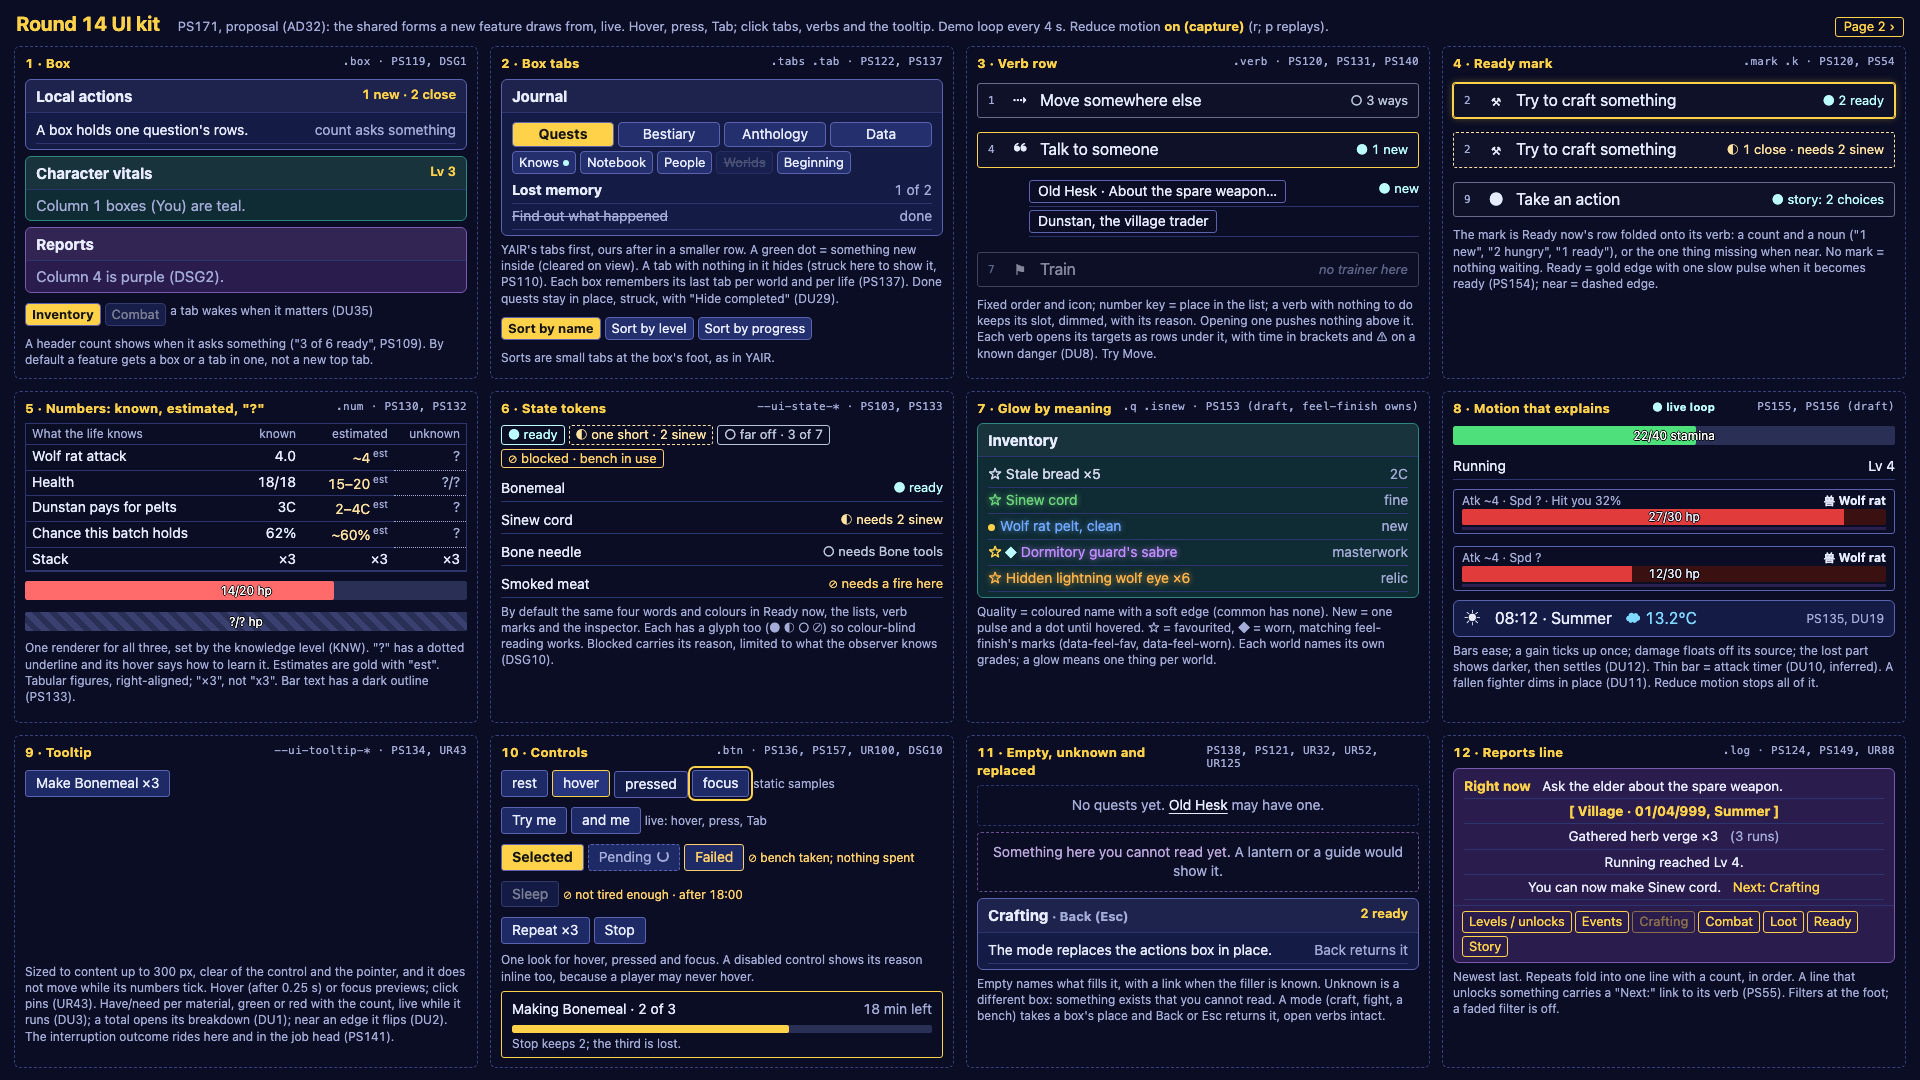
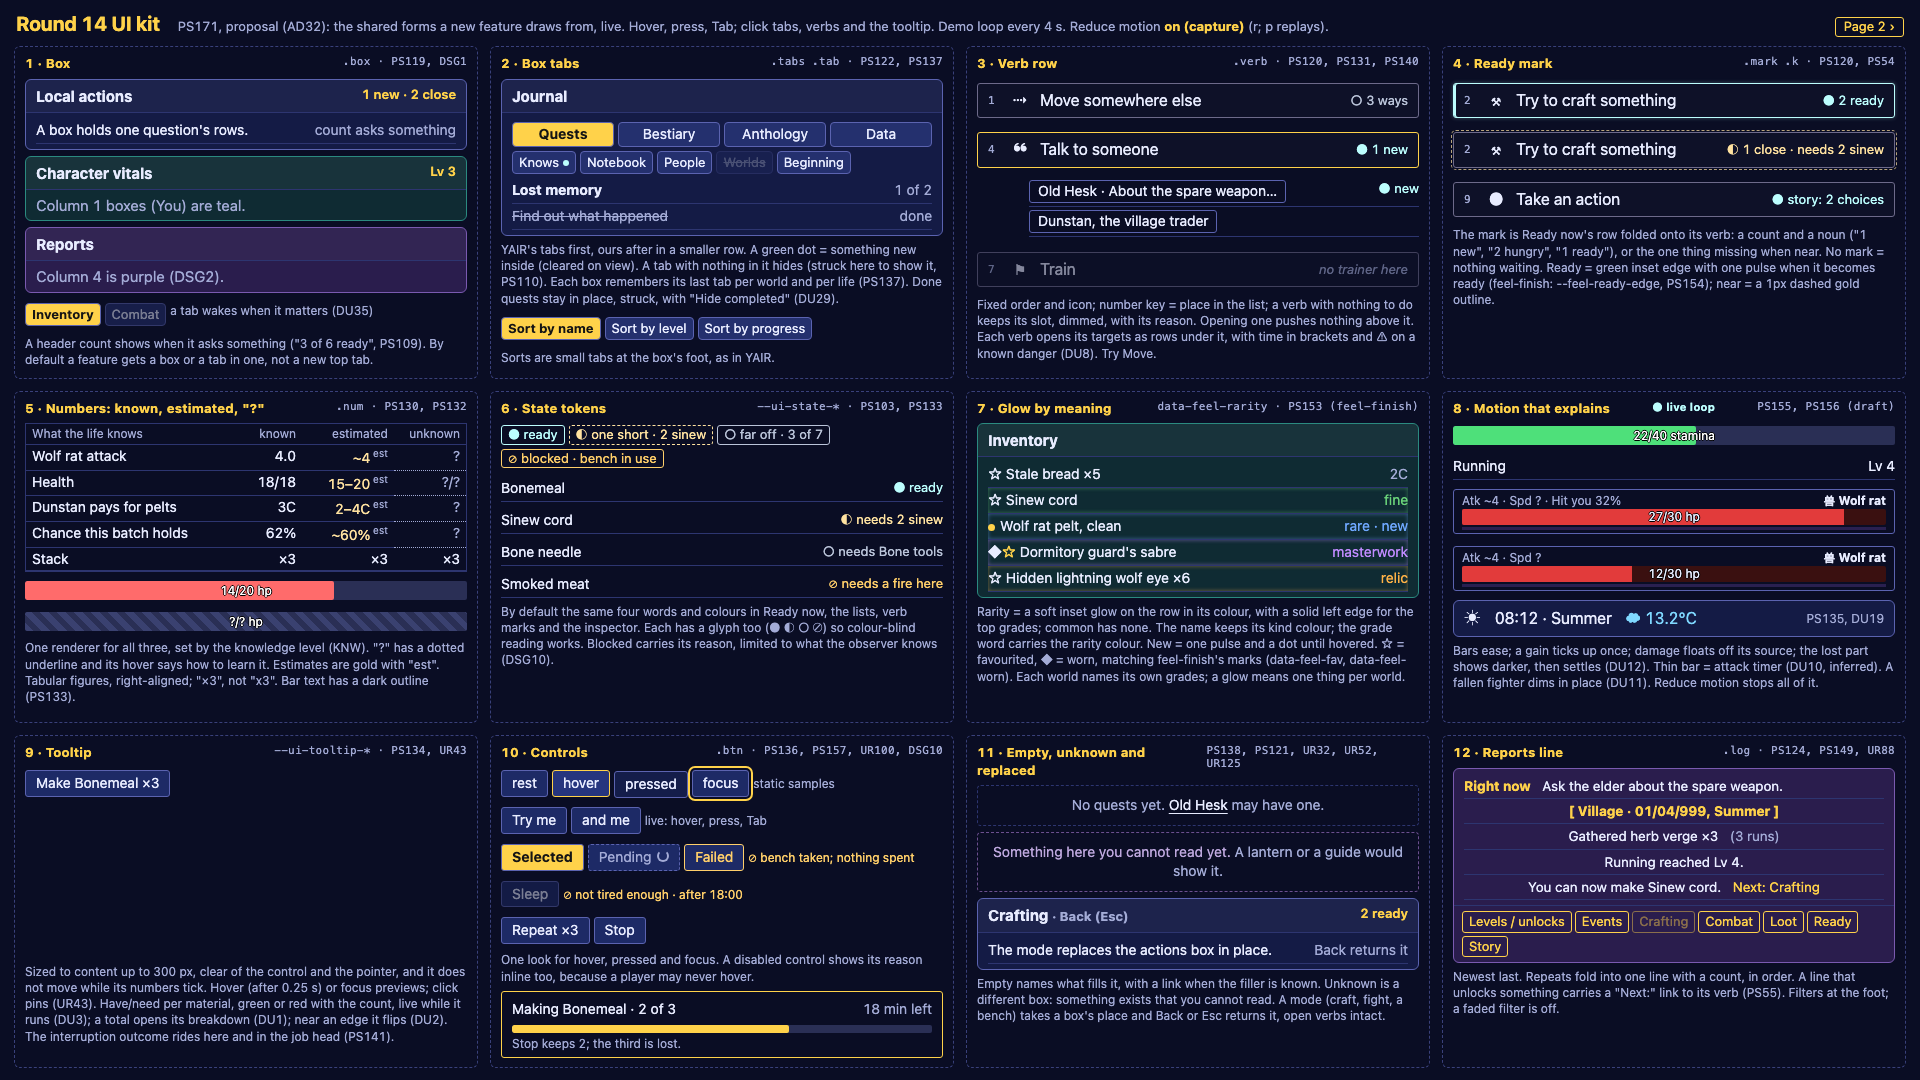
UI kit matches feel-finish's settled names: links styles/feel_finish.css, green ready edge and feel-ready-pulse, dashed gold near, rarity as an inset row glow from data-feel-rarity, feel-new-pulse and feel-tick-up, hover/press/focus tokens, html[data-feel-motion]

diff --git a/prototypes/ui-kit-2026-11-15/index.html b/prototypes/ui-kit-2026-11-15/index.html
@@ -10,6 +10,7 @@
      .mark, .num) are the mock's until ui-cohesion's frame names them; glow and motion follow feel-finish's
      styles/feel_finish.css where it has landed (marks, --ui-motion-settle), drafts elsewhere. Not runtime code. Keys: r toggles reduce motion, p replays the "became ready" pulse. -->
 <link rel="stylesheet" href="../../styles/ui_tokens.css">
+<link rel="stylesheet" href="../../styles/feel_finish.css"><!-- feel-finish tokens and keyframes: --feel-*, feel-ready-pulse, feel-new-pulse, feel-tick-up -->
 <style>
 :root { --bg:#0a0d24; --box:#141b45; --line:#5b63b0; --quiet:#2d3570; --text:#e8ecff; --muted:#a3abd6; --gold:#ffd24a;
   --rep:#2a1d4d; --hp:#ff6b6b; --st:#4ee07a; --mana:#7f8ed8;
@@ -63,19 +64,20 @@ main { position:absolute; top:46px; left:14px; right:14px; bottom:12px; display:
 .bar i { position:absolute; inset:0; width:var(--f); background:var(--c); border-radius:2px; transition:width .5s ease-out; }
 .bar span { position:relative; -webkit-text-stroke:0; text-shadow:-1px 0 #000, 1px 0 #000, 0 -1px #000, 0 1px #000; }
 .bar.unk i { background:repeating-linear-gradient(45deg, #3a4170 0 6px, #2a2f55 6px 12px); width:100%; }
-/* Glow (PS153, PS154): rarity name with a soft edge, new = one pulse and a dot, ready = gold edge. */
-.q { text-shadow:0 0 6px color-mix(in srgb, currentColor 60%, transparent); }
-.q.common { color:var(--q-common); text-shadow:none; } .q.fine { color:var(--q-fine); } .q.rare { color:var(--q-rare); } .q.masterwork { color:var(--q-masterwork); } .q.relic { color:var(--q-relic); }
+/* Glow (PS153, PS154), matched to feel-finish (styles/feel_finish.css): rarity is an inset glow on the row in --feel-rarity, not on the
+   letters (the Gothic face takes no text glow); the name keeps its kind colour. Ready = green inset edge (--feel-ready-edge) with one
+   feel-ready-pulse; near = 1px dashed gold outline (--feel-near); new = one feel-new-pulse; ticks use feel-tick-up. All at --ui-motion-settle. */
+.q { color:var(--text); }
+.qw.fine { color:var(--q-fine); } .qw.rare { color:var(--q-rare); } .qw.masterwork { color:var(--q-masterwork); } .qw.relic { color:var(--q-relic); }
+[data-feel-rarity]:not([data-feel-rarity="common"]) { box-shadow:inset 0 0 var(--feel-glow-blur, 8px) color-mix(in srgb, var(--feel-rarity) 45%, transparent); }
+[data-feel-rarity="masterwork"], [data-feel-rarity="relic"] { box-shadow:inset 2px 0 0 var(--feel-rarity), inset 0 0 calc(var(--feel-glow-blur, 8px) * 1.5) color-mix(in srgb, var(--feel-rarity) 55%, transparent); }
 .newdot { display:inline-block; width:7px; height:7px; border-radius:50%; background:var(--gold); margin-right:5px; }
-.isnew { animation:newpulse var(--pulse) ease-out 1; }
-.fav { color:var(--gold); } .worn { color:var(--k-ready); font-size:12px; margin-left:3px; } .eq { font-size:11px; border:1px solid var(--muted); color:var(--muted); border-radius:2px; padding:0 3px; }
-.verb.ready { border-color:var(--gold); box-shadow:0 0 0 1px var(--gold), 0 0 8px rgba(255,210,74,.35); }
-.verb.ready.became { animation:readypulse var(--pulse) ease-out 1; }
-.verb.near { border-style:dashed; border-color:var(--k-near); }
-@keyframes readypulse { 0% { box-shadow:0 0 0 1px var(--gold), 0 0 0 rgba(255,210,74,.0); } 40% { box-shadow:0 0 0 1px var(--gold), 0 0 18px rgba(255,210,74,.75); } 100% { box-shadow:0 0 0 1px var(--gold), 0 0 8px rgba(255,210,74,.35); } }
-@keyframes newpulse { 0% { background:rgba(255,210,74,.0); } 35% { background:rgba(255,210,74,.28); } 100% { background:rgba(255,210,74,0); } }
-@keyframes tick { 0% { color:var(--k-ready); transform:translateY(-2px); } 100% { color:inherit; transform:none; } }
-.ticked { display:inline-block; animation:tick .8s ease-out 1; }
+.isnew { animation:feel-new-pulse var(--ui-motion-settle, 900ms) var(--ui-motion-ease, ease-out) 1; }
+.fav { color:var(--gold); } .eq { font-size:11px; border:1px solid var(--muted); color:var(--muted); border-radius:2px; padding:0 3px; }
+.verb.ready { border-color:var(--feel-ready, var(--k-ready)); box-shadow:var(--feel-ready-edge, inset 2px 0 0 var(--k-ready)); }
+.verb.ready.became { animation:feel-ready-pulse var(--ui-motion-settle, 900ms) var(--ui-motion-ease, ease-out) 1; }
+.verb.near { outline:1px dashed color-mix(in srgb, var(--feel-near, var(--gold)) 70%, transparent); outline-offset:1px; }
+.ticked { display:inline-block; animation:feel-tick-up var(--ui-motion-settle, 900ms) var(--ui-motion-ease, ease-out) 1; }
 .floaty { position:absolute; right:10px; top:-4px; color:var(--hp); font-weight:700; font-size:13px; animation:floatoff 1.4s ease-out infinite; }
 @keyframes floatoff { 0% { opacity:0; transform:translateY(6px); } 20% { opacity:1; } 100% { opacity:0; transform:translateY(-16px); } }
 body.rm *, body.rm *::before, body.rm *::after { animation:none !important; transition:none !important; }
@@ -105,9 +107,9 @@ body.rm *, body.rm *::before, body.rm *::after { animation:none !important; tran
 #rmstate { color:var(--gold); }
 /* Live states (coordinator 2026-11-15: forms move, not only static samples). Real :hover, :active, :focus-visible. */
 .btn, .tab, .verb, .act, .filters span { cursor:pointer; transition:background-color .12s, border-color .12s, transform .06s, box-shadow .12s; }
-.btn:hover, .tab:not(.on):hover, .act:hover { background:#26357e; border-color:var(--gold); }
-.btn:active, .tab:active, .verb:active, .act:active { transform:translateY(1px); filter:brightness(.88); }
-.btn:focus-visible, .tab:focus-visible, .verb:focus-visible, .act:focus-visible { outline:2px solid var(--gold); outline-offset:2px; }
+.btn:hover, .tab:not(.on):hover, .act:hover { background:color-mix(in srgb, #1d2a66, var(--gold) 12%); background:var(--feel-hover-fill, #26357e); border-color:var(--gold); }
+.btn:active, .tab:active, .verb:active, .act:active { background:var(--feel-press-fill, #141d4a); transform:translateY(1px); }
+.btn:focus-visible, .tab:focus-visible, .verb:focus-visible, .act:focus-visible { outline:var(--feel-focus-ring, 2px solid var(--gold)); outline-offset:2px; }
 .verb:not(.dim):hover { background:rgba(255,255,255,.06); border-color:#a9a6d0; } .verb.ready:hover { border-color:var(--gold); }
 .verb.dim { cursor:not-allowed; }
 .btn[aria-disabled="true"] { opacity:.5; cursor:not-allowed; } .btn[aria-disabled="true"]:hover { background:#1d2a66; border-color:var(--line); }
@@ -198,7 +200,7 @@ main[hidden] { display:none; } .pager { margin-left:auto; color:var(--gold); bor
   <div class="verb ready" id="pulseA" tabindex="0"><span class="key">2</span><span class="ic">⚒</span><span>Try to craft something</span><span class="mark k ready" id="readyMark">2 ready</span></div>
   <div class="verb near"><span class="key">2</span><span class="ic">⚒</span><span>Try to craft something</span><span class="mark k near">1 close · needs 2 sinew</span></div>
   <div class="verb"><span class="key">9</span><span class="ic">●</span><span>Take an action</span><span class="mark k ready">story: 2 choices</span></div>
-  <div class="cap">The mark is Ready now's row folded onto its verb: a count and a noun ("1 new", "2 hungry", "1 ready"), or the one thing missing when near. No mark = nothing waiting. Ready = gold edge with one slow pulse when it becomes ready (PS154); near = dashed edge.</div>
+  <div class="cap">The mark is Ready now's row folded onto its verb: a count and a noun ("1 new", "2 hungry", "1 ready"), or the one thing missing when near. No mark = nothing waiting. Ready = green inset edge with one pulse when it becomes ready (feel-finish: --feel-ready-edge, PS154); near = a 1px dashed gold outline.</div>
 </section>
 
 <section class="cell"><h2>5 · Numbers: known, estimated, "?" <code>.num · PS130, PS132</code></h2>
@@ -222,15 +224,15 @@ main[hidden] { display:none; } .pager { margin-left:auto; color:var(--gold); bor
   <div class="cap">By default the same four words and colours in Ready now, the lists, verb marks and the inspector. Each has a glyph too (● ◐ ○ ⊘) so colour-blind reading works. Blocked carries its reason, limited to what the observer knows (DSG10).</div>
 </section>
 
-<section class="cell"><h2>7 · Glow by meaning <code>.q .isnew · PS153 (draft, feel-finish owns)</code></h2>
+<section class="cell"><h2>7 · Glow by meaning <code>data-feel-rarity · PS153 (feel-finish)</code></h2>
   <div class="box teal"><h3><span>Inventory</span><small></small></h3><div class="body">
     <div class="row"><span class="q common">☆ Stale bread ×5</span><span class="m">2C</span></div>
-    <div class="row"><span class="q fine">☆ Sinew cord</span><span class="m">fine</span></div>
-    <div class="row isnew" id="pulseB"><span><span class="newdot"></span><span class="q rare">Wolf rat pelt, clean</span></span><span class="m">new</span></div>
-    <div class="row"><span><span class="fav">☆</span><span class="worn" title="worn">◆</span> <span class="q masterwork">Dormitory guard's sabre</span></span><span class="m">masterwork</span></div>
-    <div class="row"><span class="q relic">☆ Hidden lightning wolf eye ×6</span><span class="m">relic</span></div>
+    <div class="row" data-feel-rarity="fine" style="--feel-rarity:var(--q-fine)"><span class="q">☆ Sinew cord</span><span class="qw fine">fine</span></div>
+    <div class="row isnew" id="pulseB" data-item-new data-feel-rarity="rare" style="--feel-rarity:var(--q-rare)"><span><span class="newdot"></span><span class="q">Wolf rat pelt, clean</span></span><span class="qw rare">rare · new</span></div>
+    <div class="row" data-feel-fav data-feel-worn data-feel-rarity="masterwork" style="--feel-rarity:var(--q-masterwork)"><span><span class="worn" title="worn">◆</span><span class="fav">☆</span> <span class="q">Dormitory guard's sabre</span></span><span class="qw masterwork">masterwork</span></div>
+    <div class="row" data-feel-rarity="relic" style="--feel-rarity:var(--q-relic)"><span class="q">☆ Hidden lightning wolf eye ×6</span><span class="qw relic">relic</span></div>
   </div></div>
-  <div class="cap">Quality = coloured name with a soft edge (common has none). New = one pulse and a dot until hovered. ☆ = favourited, ◆ = worn, matching feel-finish's marks (data-feel-fav, data-feel-worn). Each world names its own grades; a glow means one thing per world.</div>
+  <div class="cap">Rarity = a soft inset glow on the row in its colour, with a solid left edge for the top grades; common has none. The name keeps its kind colour; the grade word carries the rarity colour. New = one pulse and a dot until hovered. ☆ = favourited, ◆ = worn, matching feel-finish's marks (data-feel-fav, data-feel-worn). Each world names its own grades; a glow means one thing per world.</div>
 </section>
 
 <section class="cell"><h2>8 · Motion that explains <span class="live">live loop</span> <code>PS155, PS156 (draft)</code></h2>
@@ -369,7 +371,7 @@ function beat() {
   $('jobBar').style.setProperty('--f', (job / 3 * 100 - 10) + '%'); $('jobLeft').textContent = `${(3 - job) * 15 + 3} min left`;
 }
 setInterval(() => { mins = mins <= 5 ? 45 : mins - 5; $('tipClock').textContent = `${mins} min`; }, 1000);
-function setRM(on) { body.classList.toggle('rm', on); rmState.textContent = on ? 'on' : 'off'; }
+function setRM(on) { body.classList.toggle('rm', on); document.documentElement.dataset.feelMotion = on ? 'reduce' : 'on'; rmState.textContent = on ? 'on' : 'off'; }
 addEventListener('keydown', e => { if (e.target.matches('input, textarea')) return; if (e.key === 'r') setRM(!body.classList.contains('rm')); if (e.key === 'p') beat(); if (e.key === 'Escape') $('tipHost').classList.remove('pinned'); });
 if (P.has('still')) { setRM(true); rmState.textContent = 'on (capture)'; $('pulseA').classList.add('became'); }
 else { beat(); setInterval(beat, 4000); }

diff --git a/prototypes/ui-kit-2026-11-15/README.md b/prototypes/ui-kit-2026-11-15/README.md
@@ -19,5 +19,5 @@ Sources: rounds 14 to 16 in the [play surface considerations](../../docs/gm/disp
 
 Open points:
 - Class names (`.box`, `.tab`, `.verb`, `.mark`, `.num`, `.k`) are the mock's. They change to match the frame ui-cohesion builds.
-- Glow and motion (cells 4, 7 and 8): the favourite and worn marks (☆, ◆) and the pulse timing (`--ui-motion-settle`) match feel-finish's `styles/feel_finish.css`. The rest stays a draft until their PS153 to PS157 land.
+- Glow and motion (cells 4, 7 and 8) follow feel-finish's settled names and link `styles/feel_finish.css`: ready is a green inset edge (`--feel-ready-edge`) with one `feel-ready-pulse`; near is a 1px dashed gold outline; rarity is an inset glow on the row from `--feel-rarity` (`data-feel-rarity`), with no text glow; plus `feel-new-pulse`, `feel-tick-up`, the ☆ and ◆ marks, the hover, press and focus tokens, and `html[data-feel-motion=reduce]` for reduce motion.
 - Quality grade names (fine, rare, masterwork, relic) are placeholders; each world names its own.
